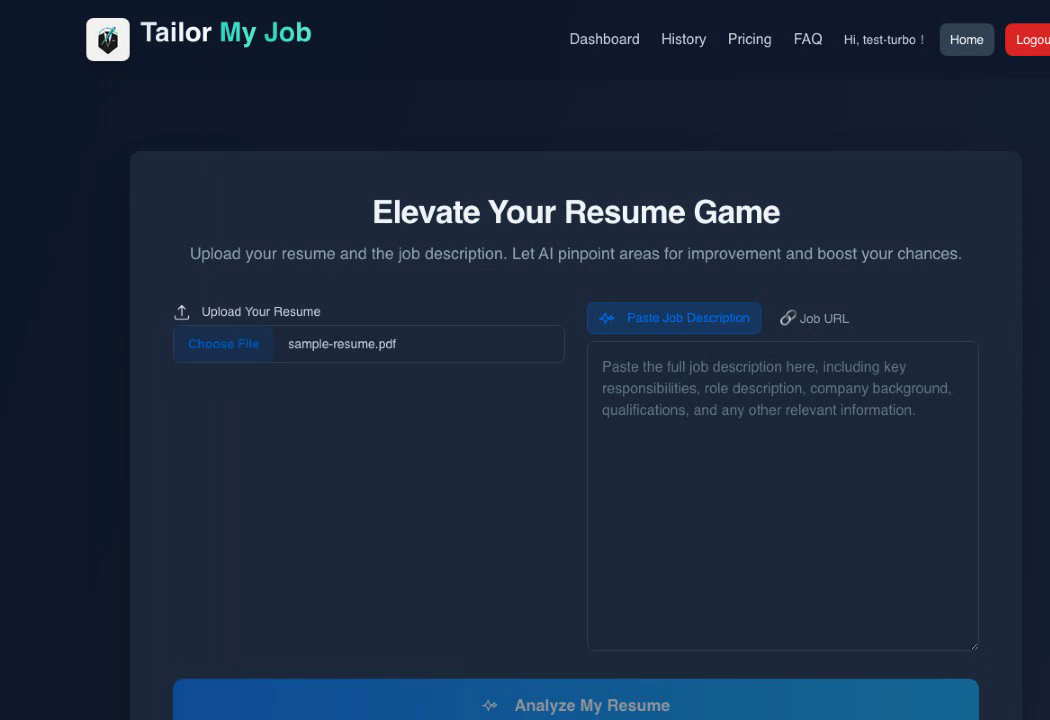
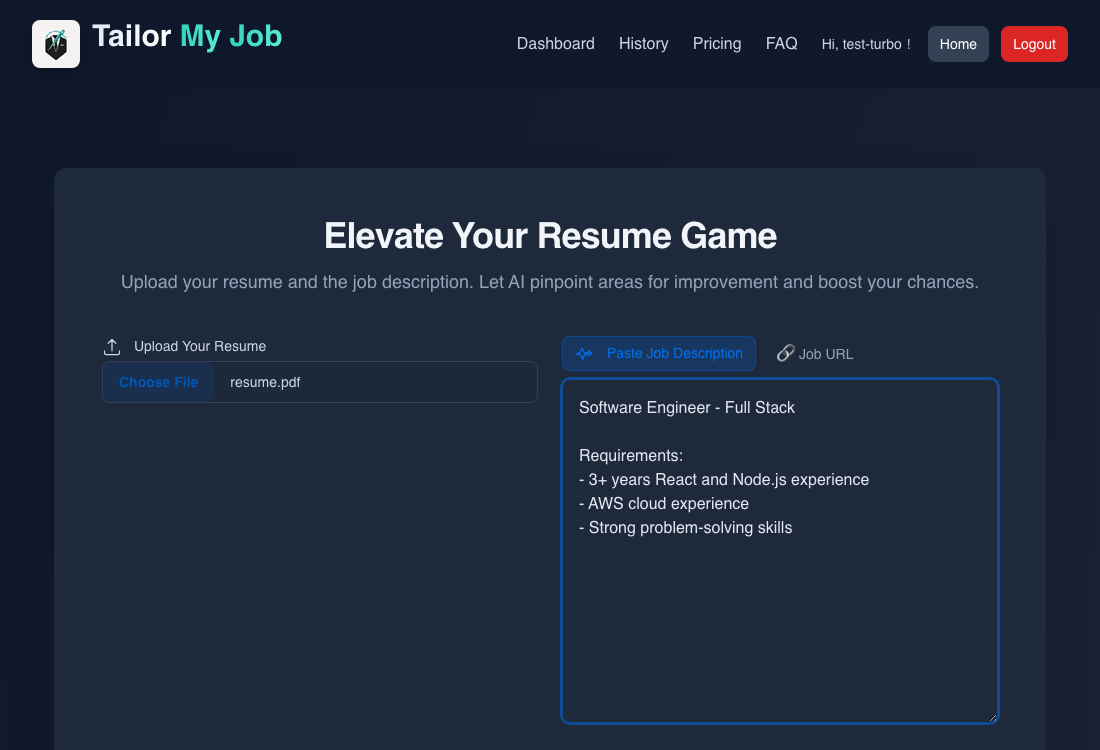
fix: Update screenshot with proper viewport, remove broken result screenshots
- Form screenshot now has no gray bar, Logout fully visible
- Remove result screenshots until analysis service is fixed
- Update README to show single screenshot

diff --git a/README.md b/README.md
@@ -75,8 +75,7 @@ TailorMyJob is built with modern, scalable technologies:
 ## Screenshots
 
 <p align="center">
-  <img src="assets/screenshots/screenshot-form-filled.png" alt="Upload Resume" width="400">
-  <img src="assets/screenshots/screenshot-result.png" alt="Analysis Result" width="400">
+  <img src="assets/screenshots/screenshot-form-filled.png" alt="Upload Resume" width="700">
 </p>
 
 ## Security & Privacy

diff --git a/docs/README.zh-TW.md b/docs/README.zh-TW.md
@@ -75,8 +75,7 @@ TailorMyJob 採用現代化、可擴展的技術：
 ## 產品截圖
 
 <p align="center">
-  <img src="../assets/screenshots/screenshot-form-filled.png" alt="上傳履歷" width="400">
-  <img src="../assets/screenshots/screenshot-result.png" alt="分析結果" width="400">
+  <img src="../assets/screenshots/screenshot-form-filled.png" alt="上傳履歷" width="700">
 </p>
 
 ## 安全與隱私
